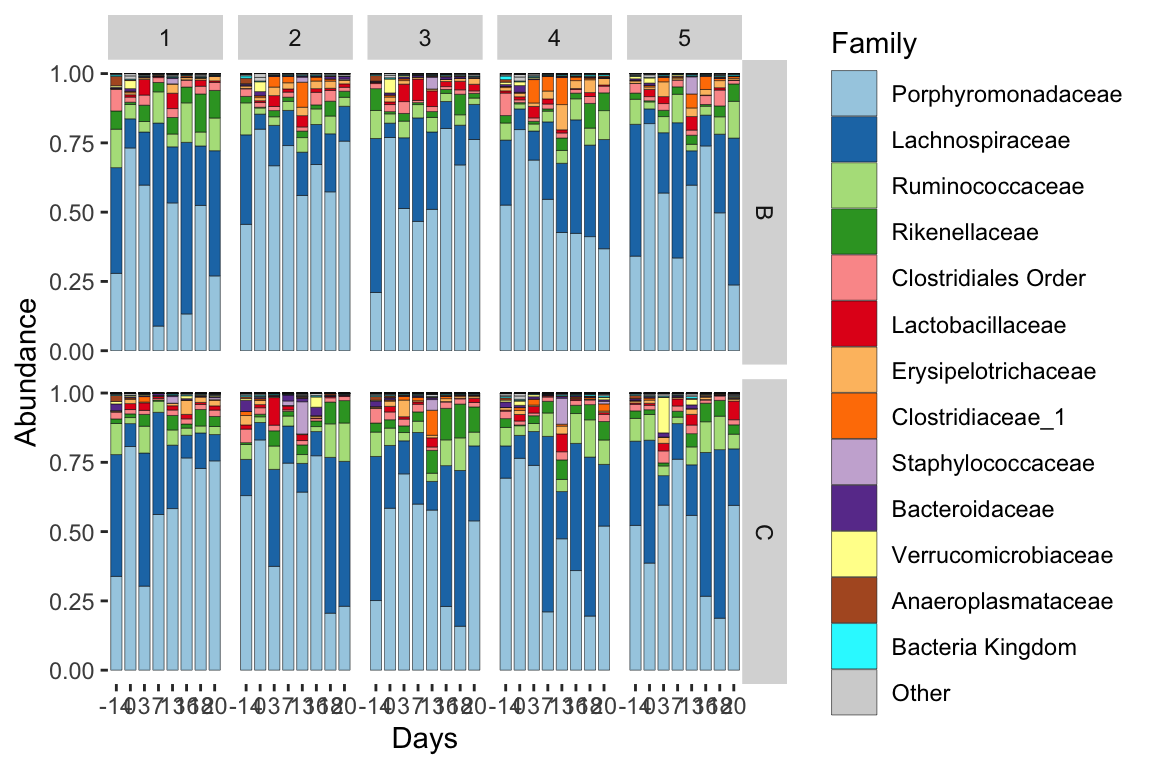
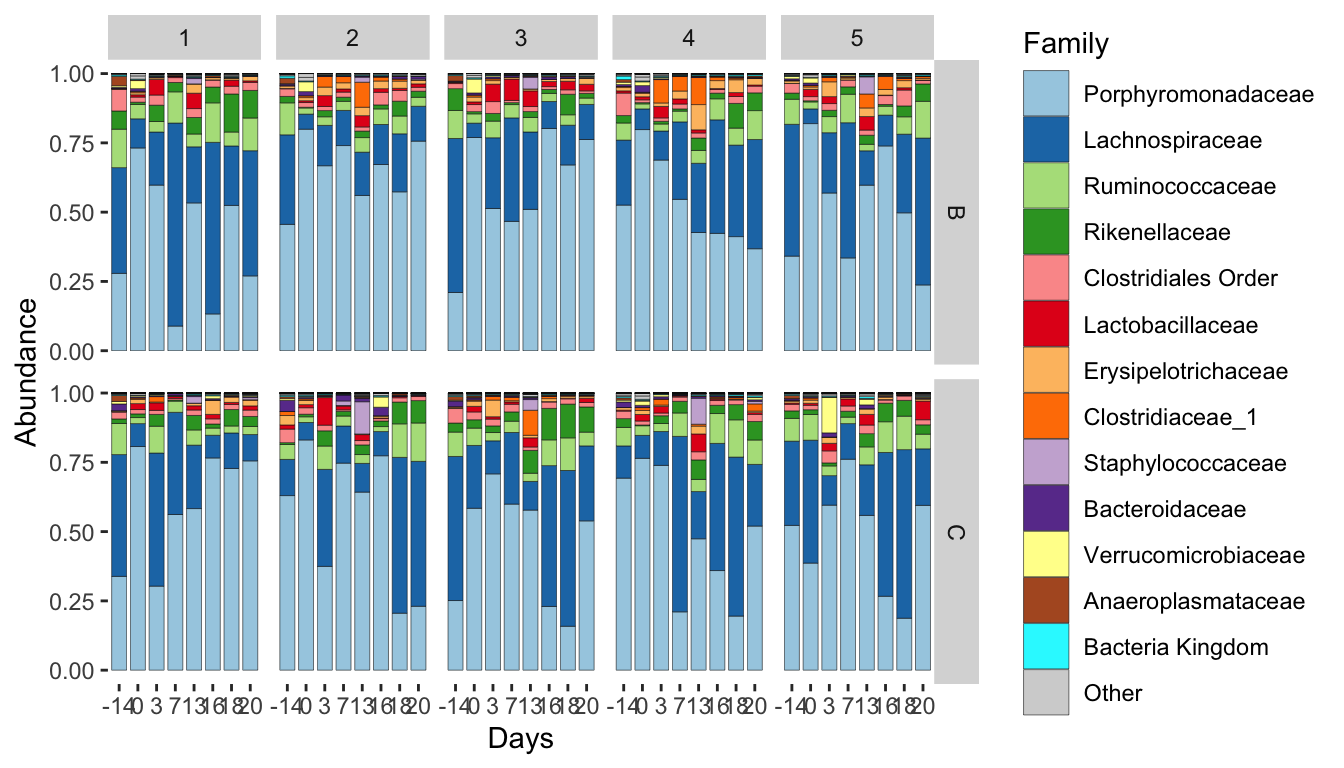
update exercises 1

diff --git a/exercises/exercises_1.html b/exercises/exercises_1.html
@@ -114,8 +114,8 @@ code span.wa { color: #60a0b0; font-weight: bold; font-style: italic; } /* Warni
    
   <ul>
   <li><a href="#instructions" id="toc-instructions" class="nav-link active" data-scroll-target="#instructions">Instructions 👋</a></li>
-  <li><a href="#setup" id="toc-setup" class="nav-link" data-scroll-target="#setup">Setup</a></li>
-  <li><a href="#intro-to-phyloseq" id="toc-intro-to-phyloseq" class="nav-link" data-scroll-target="#intro-to-phyloseq">Intro to phyloseq</a>
+  <li><a href="#setup" id="toc-setup" class="nav-link" data-scroll-target="#setup">Setup ⚙</a></li>
+  <li><a href="#intro-to-phyloseq" id="toc-intro-to-phyloseq" class="nav-link" data-scroll-target="#intro-to-phyloseq">Intro to phyloseq 🦠</a>
   <ul>
   <li><a href="#filling-gaps-in-the-taxonomy-table" id="toc-filling-gaps-in-the-taxonomy-table" class="nav-link" data-scroll-target="#filling-gaps-in-the-taxonomy-table">Filling gaps in the taxonomy table</a></li>
   </ul></li>
@@ -131,7 +131,10 @@ code span.wa { color: #60a0b0; font-weight: bold; font-style: italic; } /* Warni
   <li><a href="#diversity" id="toc-diversity" class="nav-link" data-scroll-target="#diversity">Diversity</a></li>
   </ul></li>
   <li><a href="#comparing-diversity" id="toc-comparing-diversity" class="nav-link" data-scroll-target="#comparing-diversity">Comparing Diversity</a></li>
-  <li><a href="#further-information" id="toc-further-information" class="nav-link" data-scroll-target="#further-information">Further information</a></li>
+  <li><a href="#break-time" id="toc-break-time" class="nav-link" data-scroll-target="#break-time">Break Time! ☕ ⌚</a>
+  <ul>
+  <li><a href="#you-want-more-about-diversity" id="toc-you-want-more-about-diversity" class="nav-link" data-scroll-target="#you-want-more-about-diversity">You want more about diversity?</a></li>
+  </ul></li>
   <li><a href="#session-info" id="toc-session-info" class="nav-link" data-scroll-target="#session-info">Session info</a></li>
   </ul>
 </nav>
@@ -222,17 +225,25 @@ Getting help
 <hr>
 </section>
 <section id="setup" class="level2">
-<h2 class="anchored" data-anchor-id="setup">Setup</h2>
-<p>Load the R packages we will be using:</p>
+<h2 class="anchored" data-anchor-id="setup">Setup ⚙</h2>
+<ol type="1">
+<li>Open your RStudio server instance (or local RStudio if you prefer)</li>
+<li>Find the microbiome analysis folder</li>
+<li>Click on the .Rproj file to open an RStudio project (recommended)</li>
+<li>Open a new R script / notebook / quarto doc</li>
+<li>Load the R packages we will be using:</li>
+</ol>
 <div class="cell">
 <div class="sourceCode cell-code" id="cb3"><pre class="sourceCode r code-with-copy"><code class="sourceCode r"><span id="cb3-1"><a href="#cb3-1" aria-hidden="true" tabindex="-1"></a><span class="fu">library</span>(tidyverse)</span>
 <span id="cb3-2"><a href="#cb3-2" aria-hidden="true" tabindex="-1"></a><span class="fu">library</span>(phyloseq)</span>
 <span id="cb3-3"><a href="#cb3-3" aria-hidden="true" tabindex="-1"></a><span class="fu">library</span>(microViz)</span>
 <span id="cb3-4"><a href="#cb3-4" aria-hidden="true" tabindex="-1"></a><span class="fu">library</span>(shiny)</span></code><button title="Copy to Clipboard" class="code-copy-button"><i class="bi"></i></button></pre></div>
 </div>
-<p>Get the two example datasets:</p>
+<ol start="6" type="1">
+<li>Explore some microbiomes</li>
+</ol>
 <ul>
-<li>We’ll primarily use these two datasets in these exercises</li>
+<li>We’ll use two example datasets in this evening’s exercises</li>
 <li>Both contain gut microbiome taxonomic composition data, from stool samples</li>
 <li>The first is from a 2019 study of antibiotic administration in mice</li>
 <li>The mouse antibiotics study used 16S rRNA gene amplicon sequencing
@@ -262,7 +273,7 @@ Getting help
 </ul>
 </section>
 <section id="intro-to-phyloseq" class="level2">
-<h2 class="anchored" data-anchor-id="intro-to-phyloseq">Intro to phyloseq</h2>
+<h2 class="anchored" data-anchor-id="intro-to-phyloseq">Intro to phyloseq 🦠</h2>
 <p>We will start with some processed microbiota data from the mouse study.</p>
 <div class="callout-note callout callout-style-default callout-captioned">
 <div class="callout-header d-flex align-content-center" data-bs-toggle="collapse" data-bs-target=".callout-3-contents" aria-controls="callout-3" aria-expanded="false" aria-label="Toggle callout">
@@ -720,7 +731,7 @@ tax_table()   Taxonomy Table:    [ 3229 taxa by 6 taxonomic ranks ]</code></pre>
   reorder.hclust vegan</code></pre>
 </div>
 <div class="cell-output-display">
-<p><img src="exercises_1_files/figure-html/unnamed-chunk-18-1.png" class="img-fluid" width="576"></p>
+<p><img src="exercises_1_files/figure-html/unnamed-chunk-18-1.png" class="img-fluid" width="672"></p>
 </div>
 </div>
 <div class="cell">
@@ -962,7 +973,7 @@ Explanation of the Effective Shannon Diversity
 </div>
 </div>
 <ul>
-<li>The mice exposed to Ampicillin (alone or with Metronidazole) appear to have higher diversity at this day 7 sample!</li>
+<li>The mice exposed to Ampicillin (± Metronidazole) appear to have higher diversity at this day 7 sample!</li>
 </ul>
 <div class="cell">
 <div class="sourceCode cell-code" id="cb39"><pre class="sourceCode r code-with-copy"><code class="sourceCode r"><span id="cb39-1"><a href="#cb39-1" aria-hidden="true" tabindex="-1"></a><span class="co"># A simple statistical test supports this assertion</span></span>
@@ -978,7 +989,10 @@ W = 59, p-value = 2.919e-06
 alternative hypothesis: true location shift is not equal to 0</code></pre>
 </div>
 </div>
-<p>You can apply more complex statistical tests if you like, e.g.&nbsp;adjusting for covariates with linear regression, using <code>lm()</code></p>
+<ul>
+<li>You can apply more complex statistical tests if you like</li>
+<li>e.g.&nbsp;adjusting for covariates with linear regression, using <code>lm()</code></li>
+</ul>
 <div class="cell">
 <div class="sourceCode cell-code" id="cb41"><pre class="sourceCode r code-with-copy"><code class="sourceCode r"><span id="cb41-1"><a href="#cb41-1" aria-hidden="true" tabindex="-1"></a>allMice <span class="sc">%&gt;%</span></span>
 <span id="cb41-2"><a href="#cb41-2" aria-hidden="true" tabindex="-1"></a>  <span class="fu">ps_filter</span>(treatment_days <span class="sc">==</span> <span class="st">"D7"</span>) <span class="sc">%&gt;%</span></span>
@@ -1009,6 +1023,7 @@ Multiple R-squared:  0.417, Adjusted R-squared:  0.3982
 F-statistic: 22.17 on 2 and 62 DF,  p-value: 5.454e-08</code></pre>
 </div>
 </div>
+<p><strong>Final activities for part 1:</strong></p>
 <ul>
 <li>Try making other diversity comparisons for yourself?</li>
 <li>Consider comparing ASV-level diversity?</li>
@@ -1018,8 +1033,10 @@ F-statistic: 22.17 on 2 and 62 DF,  p-value: 5.454e-08</code></pre>
 </ul>
 <hr>
 </section>
-<section id="further-information" class="level2">
-<h2 class="anchored" data-anchor-id="further-information">Further information</h2>
+<section id="break-time" class="level2">
+<h2 class="anchored" data-anchor-id="break-time">Break Time! ☕ ⌚</h2>
+<section id="you-want-more-about-diversity" class="level3">
+<h3 class="anchored" data-anchor-id="you-want-more-about-diversity">You want more about diversity?</h3>
 <div class="callout-note callout callout-style-default callout-captioned">
 <div class="callout-header d-flex align-content-center" data-bs-toggle="collapse" data-bs-target=".callout-16-contents" aria-controls="callout-16" aria-expanded="false" aria-label="Toggle callout">
 <div class="callout-icon-container">
@@ -1092,9 +1109,10 @@ Click here for an extension activity with an IBD dataset.
 <span id="cb45-3"><a href="#cb45-3" aria-hidden="true" tabindex="-1"></a>  <span class="fu">ps_mutate</span>(<span class="at">disease =</span> ibd <span class="sc">==</span> <span class="st">"ibd"</span>, <span class="at">ibd =</span> <span class="cn">NULL</span>) <span class="co"># adds disease state indicator variable</span></span></code><button title="Copy to Clipboard" class="code-copy-button"><i class="bi"></i></button></pre></div>
 </div>
 <ul>
-<li><p><code>ibd</code> is another phyloseq object containing 16S rRNA gene amplicon sequencing data, from a 2012 study of Inflammatory Bowel Disease in children and young adults.</p></li>
-<li><p>It’s “old” data: they used 454 Pyrosequencing, and clustered the raw sequences into “OTUs”.</p></li>
-<li><p>Have a look at the data, like we did before for the <code>mice</code> dataset.</p></li>
+<li><code>ibd</code> is another phyloseq object containing 16S rRNA gene amplicon sequencing data</li>
+<li>It is from a 2012 study of Inflammatory Bowel Disease in children and young adults</li>
+<li>It’s “old” data: they used 454 Pyrosequencing, and clustered the raw sequences into “OTUs”</li>
+<li>Have a look at the data, like we did before for the <code>mice</code> dataset</li>
 </ul>
 <div class="cell">
 <div class="sourceCode cell-code" id="cb46"><pre class="sourceCode r code-with-copy"><code class="sourceCode r"><span id="cb46-1"><a href="#cb46-1" aria-hidden="true" tabindex="-1"></a>ibd</span></code><button title="Copy to Clipboard" class="code-copy-button"><i class="bi"></i></button></pre></div>
@@ -1109,7 +1127,8 @@ tax_table()   Taxonomy Table:    [ 36349 taxa by 6 taxonomic ranks ]</code></pre
 <div class="sourceCode cell-code" id="cb48"><pre class="sourceCode r code-with-copy"><code class="sourceCode r"><span id="cb48-1"><a href="#cb48-1" aria-hidden="true" tabindex="-1"></a><span class="co">#</span></span></code><button title="Copy to Clipboard" class="code-copy-button"><i class="bi"></i></button></pre></div>
 </div>
 <ul>
-<li>You can perform alpha diversity analysis: Try comparing the alpha diversity of the IBD patients against the healthy controls.</li>
+<li>You can perform alpha diversity analysis:</li>
+<li>Try comparing the alpha diversity of the IBD patients against the healthy controls.</li>
 </ul>
 <div class="cell">
 <div class="sourceCode cell-code" id="cb49"><pre class="sourceCode r code-with-copy"><code class="sourceCode r"><span id="cb49-1"><a href="#cb49-1" aria-hidden="true" tabindex="-1"></a><span class="co">#</span></span></code><button title="Copy to Clipboard" class="code-copy-button"><i class="bi"></i></button></pre></div>
@@ -1118,6 +1137,7 @@ tax_table()   Taxonomy Table:    [ 36349 taxa by 6 taxonomic ranks ]</code></pre
 </div>
 </div>
 <hr>
+</section>
 </section>
 <section id="session-info" class="level2">
 <h2 class="anchored" data-anchor-id="session-info">Session info</h2>
